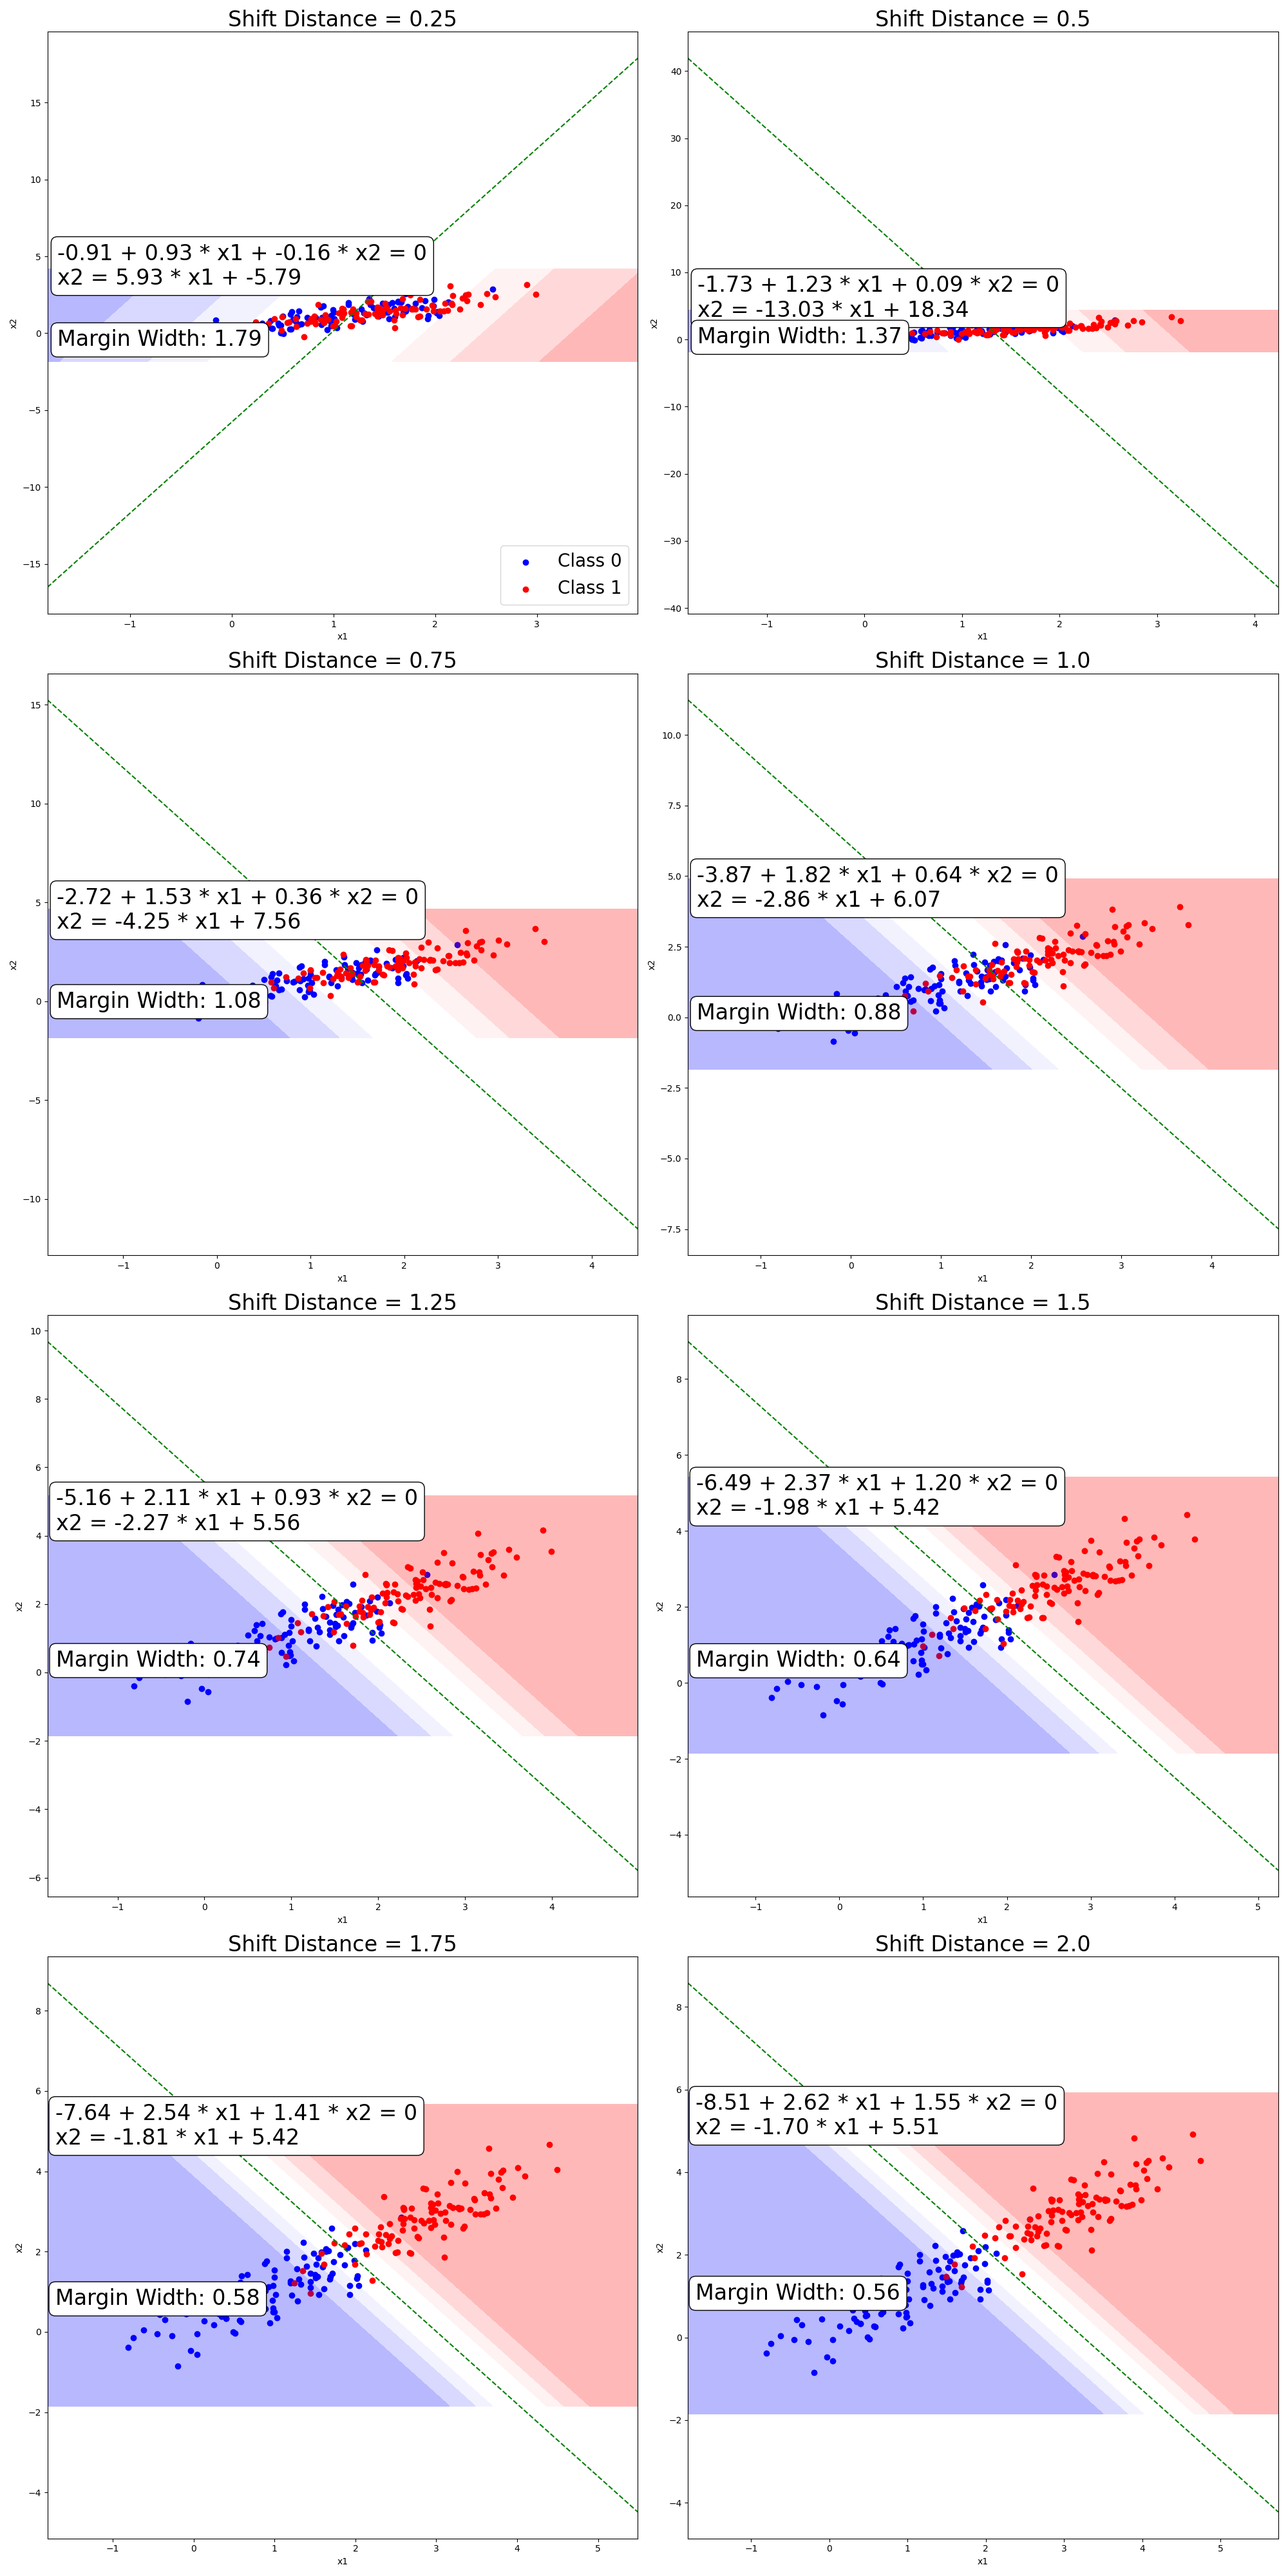
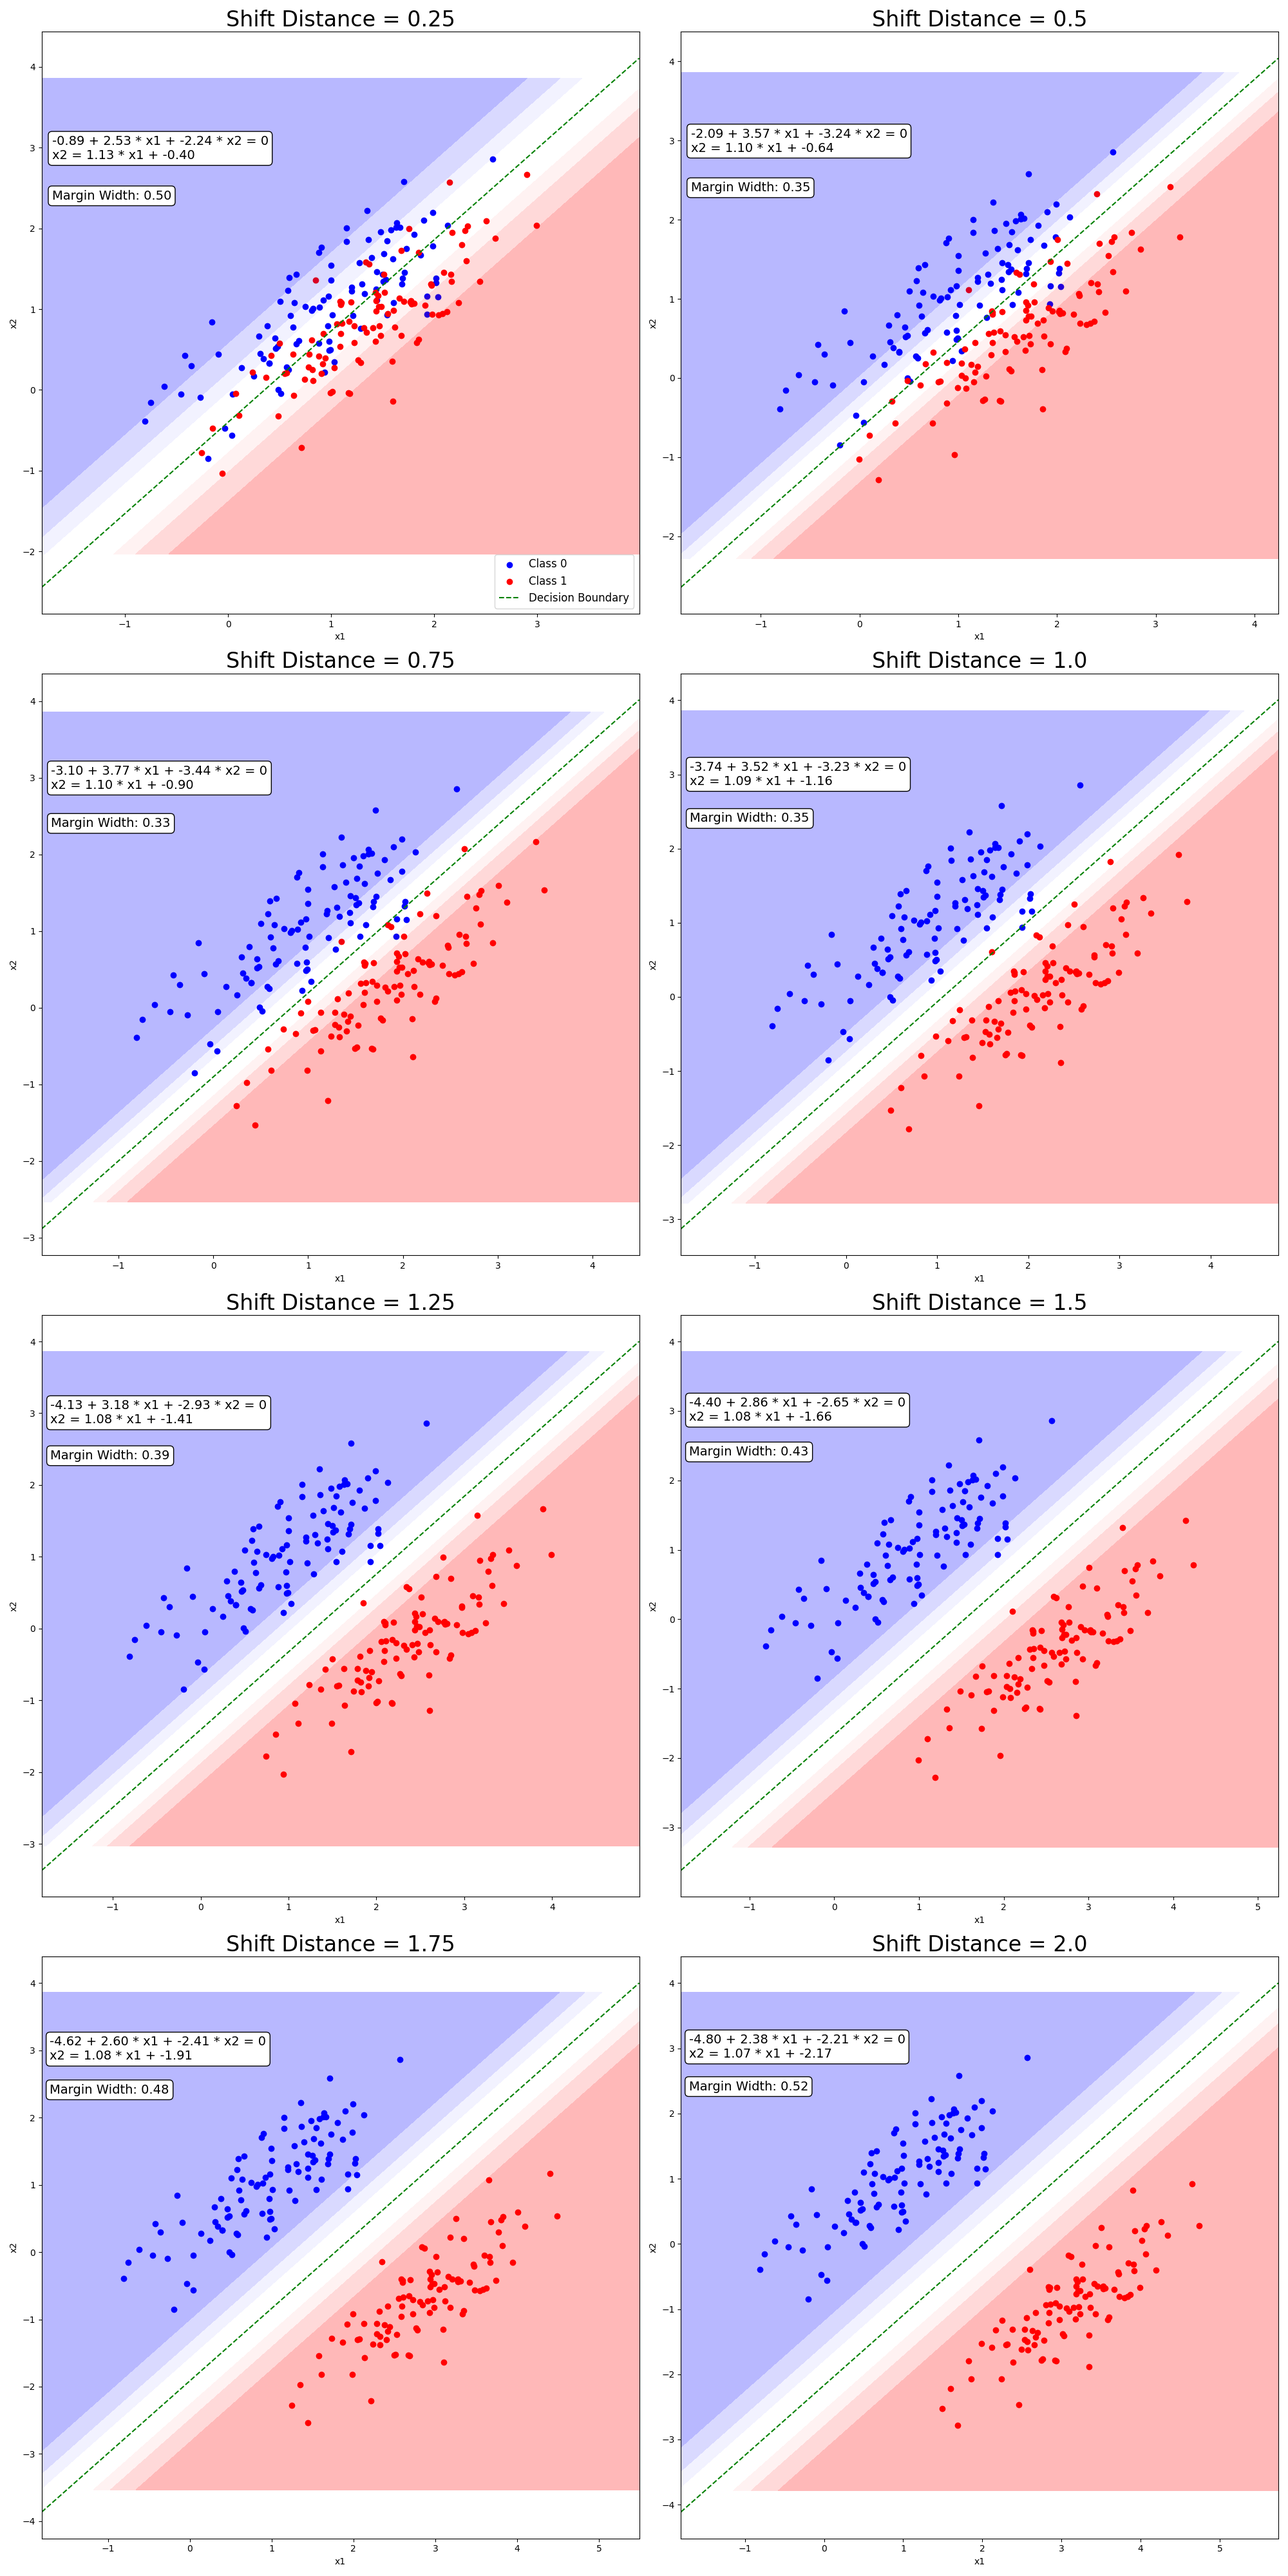
Updated axes

diff --git a/logistic_regression.py b/logistic_regression.py
@@ -1,28 +1,13 @@
 import numpy as np
-import matplotlib
-matplotlib.use('Agg')  # Use non-interactive backend for Flask compatibility
 import matplotlib.pyplot as plt
 from sklearn.linear_model import LogisticRegression
 from scipy.spatial.distance import cdist
 import os
 
-# Directory for saving result images
 result_dir = "results"
 os.makedirs(result_dir, exist_ok=True)
 
 def generate_ellipsoid_clusters(distance, n_samples=100, cluster_std=0.5):
-    """
-    Generate two clusters of data points (ellipsoidal) with a specified shift distance.
-
-    Parameters:
-    - distance: float, shift applied to the second cluster along both axes.
-    - n_samples: int, number of samples per cluster.
-    - cluster_std: float, standard deviation of the clusters.
-
-    Returns:
-    - X: np.array, combined dataset of both clusters.
-    - y: np.array, labels for the clusters (0 for first cluster, 1 for second).
-    """
     np.random.seed(0)
     covariance_matrix = np.array([[cluster_std, cluster_std * 0.8], 
                                   [cluster_std * 0.8, cluster_std]])
@@ -31,10 +16,10 @@ def generate_ellipsoid_clusters(distance, n_samples=100, cluster_std=0.5):
     X1 = np.random.multivariate_normal(mean=[1, 1], cov=covariance_matrix, size=n_samples)
     y1 = np.zeros(n_samples)
 
-    # Generate the second cluster (class 1) and shift by `distance`
+    # Generate the second cluster (class 1) and shift along y = -x
     X2 = np.random.multivariate_normal(mean=[1, 1], cov=covariance_matrix, size=n_samples)
     X2[:, 0] += distance
-    X2[:, 1] += distance
+    X2[:, 1] -= distance  # Shift along y = -x by subtracting from y
     y2 = np.ones(n_samples)
 
     # Combine the clusters into one dataset
@@ -44,19 +29,6 @@ def generate_ellipsoid_clusters(distance, n_samples=100, cluster_std=0.5):
 
 # Function to fit logistic regression and extract coefficients
 def fit_logistic_regression(X, y):
-    """
-    Fit logistic regression model and extract coefficients and intercept.
-
-    Parameters:
-    - X: np.array, feature matrix.
-    - y: np.array, target labels.
-
-    Returns:
-    - model: fitted LogisticRegression model.
-    - beta0: float, intercept of the model.
-    - beta1: float, coefficient for x1.
-    - beta2: float, coefficient for x2.
-    """
     model = LogisticRegression()
     model.fit(X, y)
     beta0 = model.intercept_[0]
@@ -64,16 +36,6 @@ def fit_logistic_regression(X, y):
     return model, beta0, beta1, beta2
 
 def do_experiments(start, end, step_num):
-    """
-    Perform experiments by shifting clusters and observing logistic regression behavior.
-
-    Parameters:
-    - start: float, starting shift distance.
-    - end: float, ending shift distance.
-    - step_num: int, number of steps between start and end.
-
-    Saves generated plots in the results directory.
-    """
     shift_distances = np.linspace(start, end, step_num)
     beta0_list, beta1_list, beta2_list, slope_list, intercept_list, loss_list, margin_widths = [], [], [], [], [], [], []
 
@@ -94,16 +56,18 @@ def do_experiments(start, end, step_num):
         slope_list.append(slope)
         intercept_list.append(intercept)
 
+        # Logistic loss calculation
         log_loss = -np.mean(y * np.log(model.predict_proba(X)[:, 1]) + (1 - y) * np.log(1 - model.predict_proba(X)[:, 1]))
         loss_list.append(log_loss)
 
+        # Plotting the dataset and decision boundary
         plt.subplot(n_rows, n_cols, i)
         plt.scatter(X[y == 0][:, 0], X[y == 0][:, 1], color='blue', label="Class 0")
         plt.scatter(X[y == 1][:, 0], X[y == 1][:, 1], color='red', label="Class 1")
 
         x_vals = np.array([X[:, 0].min() - 1, X[:, 0].max() + 1])
         y_vals = slope * x_vals + intercept
-        plt.plot(x_vals, y_vals, color="green", linestyle="--")
+        plt.plot(x_vals, y_vals, color="green", linestyle="--", label="Decision Boundary")
 
         x_min, x_max = X[:, 0].min() - 1, X[:, 0].max() + 1
         y_min, y_max = X[:, 1].min() - 1, X[:, 1].max() + 1
@@ -124,15 +88,19 @@ def do_experiments(start, end, step_num):
         plt.title(f"Shift Distance = {distance}", fontsize=24)
         plt.xlabel("x1")
         plt.ylabel("x2")
-        plt.text(x_min + 0.1, y_max - 1.0, f"{beta0:.2f} + {beta1:.2f} * x1 + {beta2:.2f} * x2 = 0\nx2 = {slope:.2f} * x1 + {intercept:.2f}", fontsize=24, color="black", ha='left', bbox=dict(facecolor='white', edgecolor='black', boxstyle='round,pad=0.3'))
-        plt.text(x_min + 0.1, y_max - 5, f"Margin Width: {min_distance:.2f}", fontsize=24, color="black", ha='left', bbox=dict(facecolor='white', edgecolor='black', boxstyle='round,pad=0.3'))
+
+        equation_text = f"{beta0:.2f} + {beta1:.2f} * x1 + {beta2:.2f} * x2 = 0\nx2 = {slope:.2f} * x1 + {intercept:.2f}"
+        margin_text = f"Margin Width: {min_distance:.2f}"
+        plt.text(x_min + 0.1, y_max - 1.0, equation_text, fontsize=14, color="black", ha='left', bbox=dict(facecolor='white', edgecolor='black', boxstyle='round,pad=0.3'))
+        plt.text(x_min + 0.1, y_max - 1.5, margin_text, fontsize=14, color="black", ha='left', bbox=dict(facecolor='white', edgecolor='black', boxstyle='round,pad=0.3'))
 
         if i == 1:
-            plt.legend(loc='lower right', fontsize=20)
+            plt.legend(loc='lower right', fontsize=12)
 
     plt.tight_layout()
     plt.savefig(f"{result_dir}/dataset.png")
 
+    # Plot results for analysis
     plt.figure(figsize=(18, 15))
 
     plt.subplot(3, 3, 1)
@@ -158,9 +126,7 @@ def do_experiments(start, end, step_num):
     plt.title("Shift Distance vs Beta1 / Beta2 (Slope)")
     plt.xlabel("Shift Distance")
     plt.ylabel("Beta1 / Beta2")
-    plt.ylim(-4, 2)
-
-    
+    plt.ylim(-2, 2)
 
     plt.subplot(3, 3, 5)
     plt.plot(shift_distances, intercept_list)
